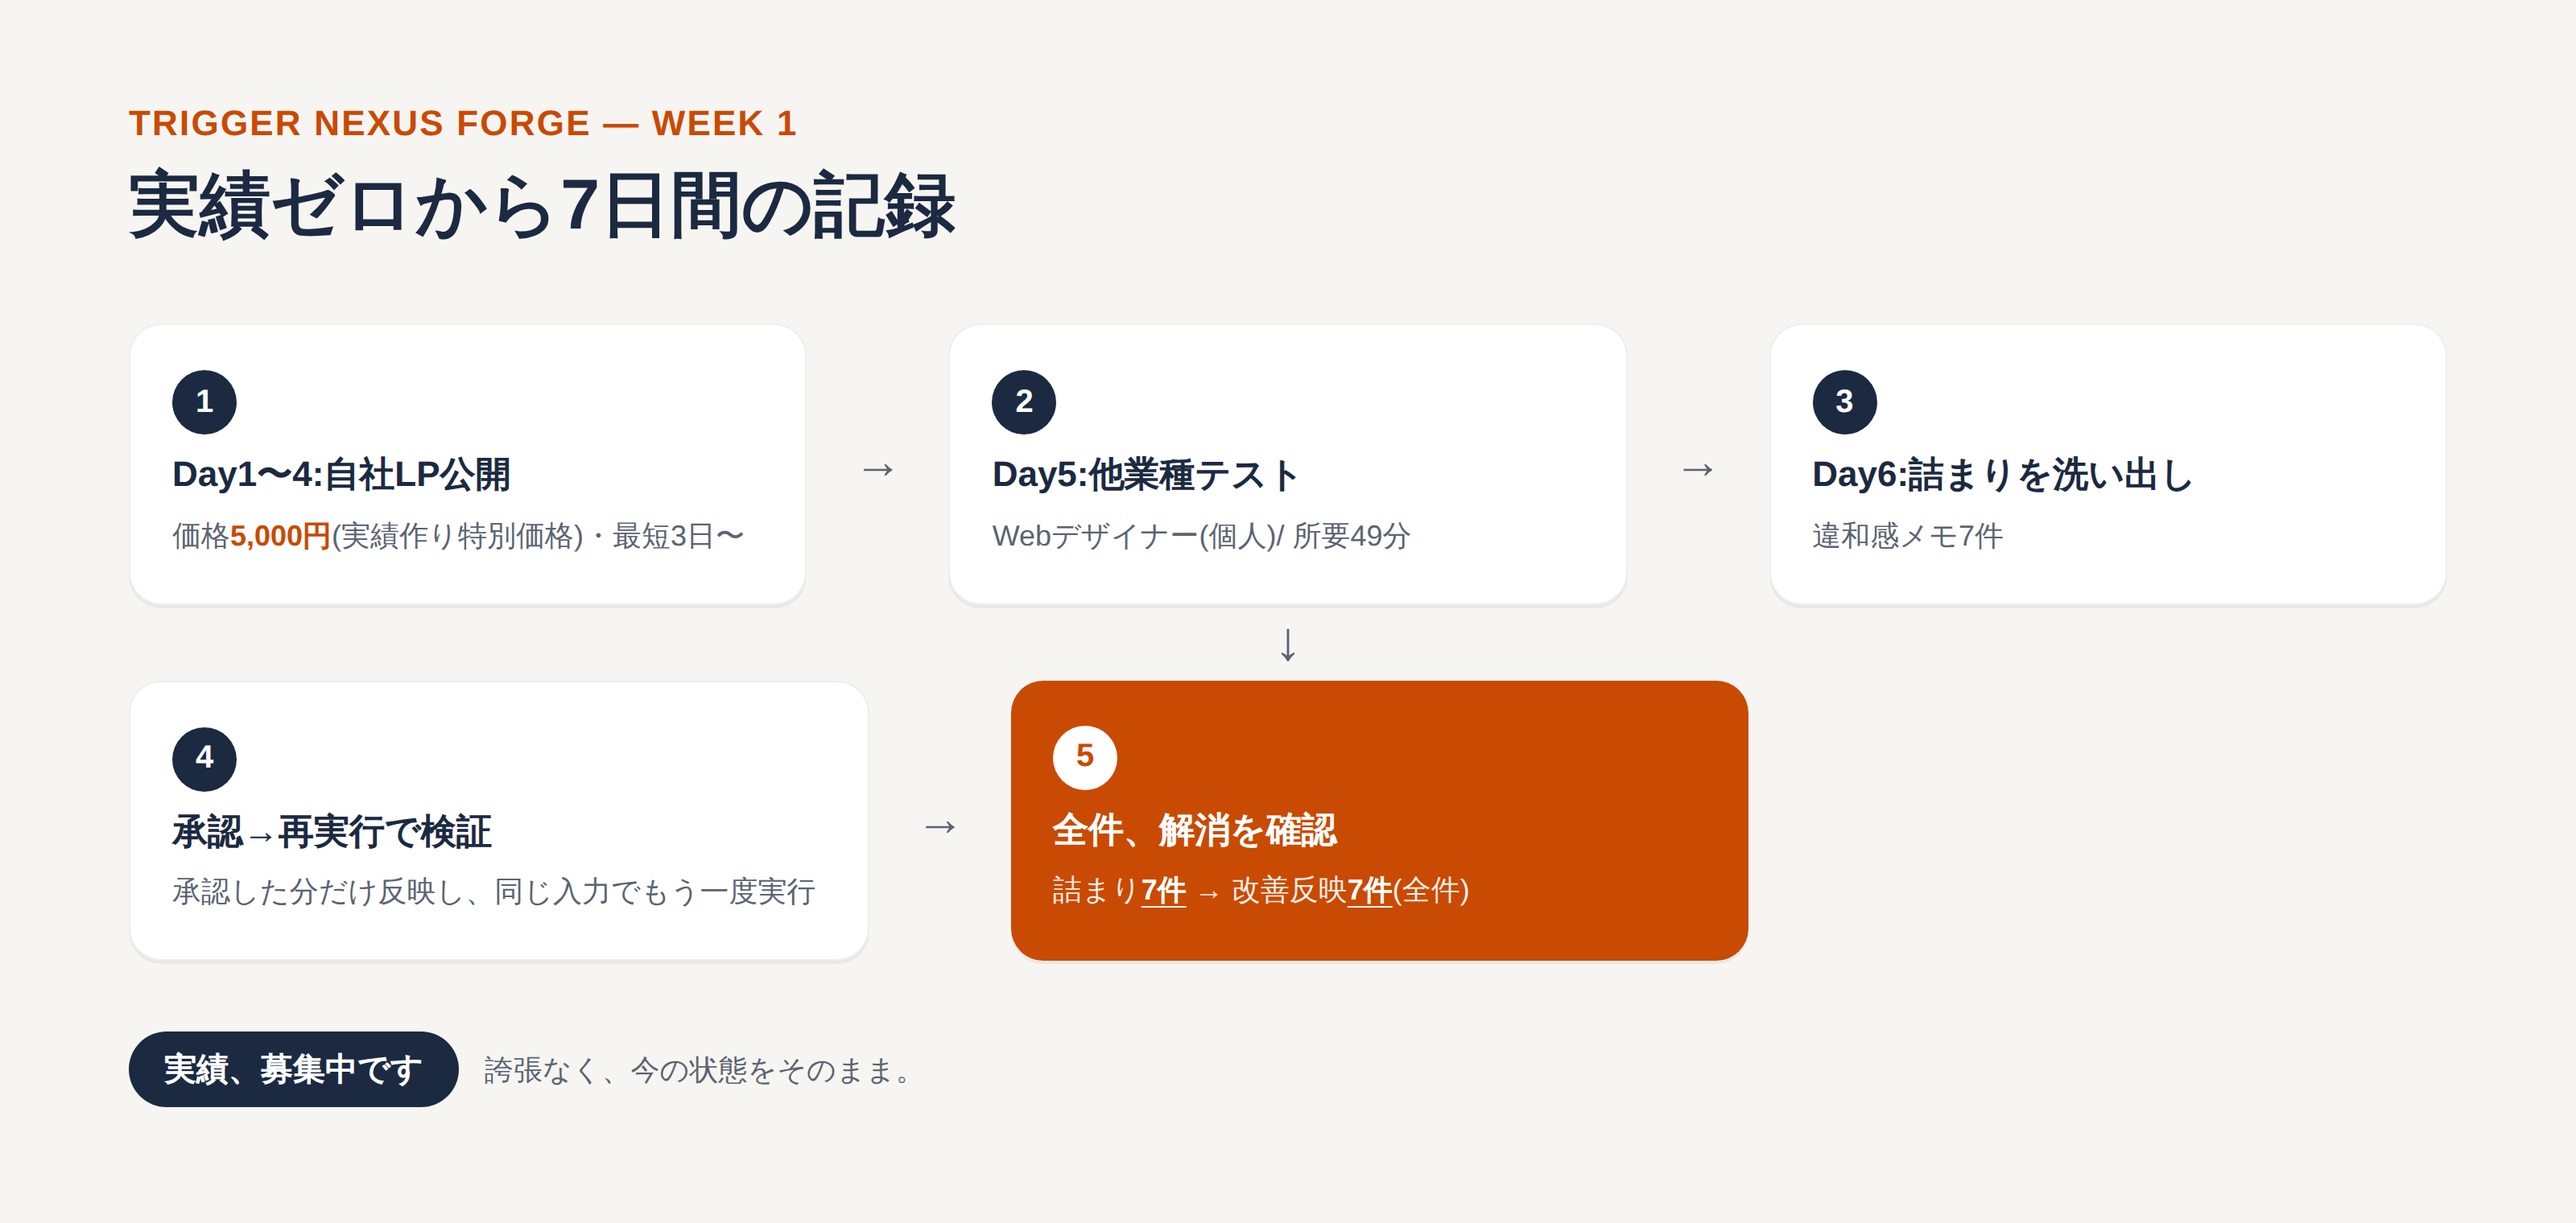
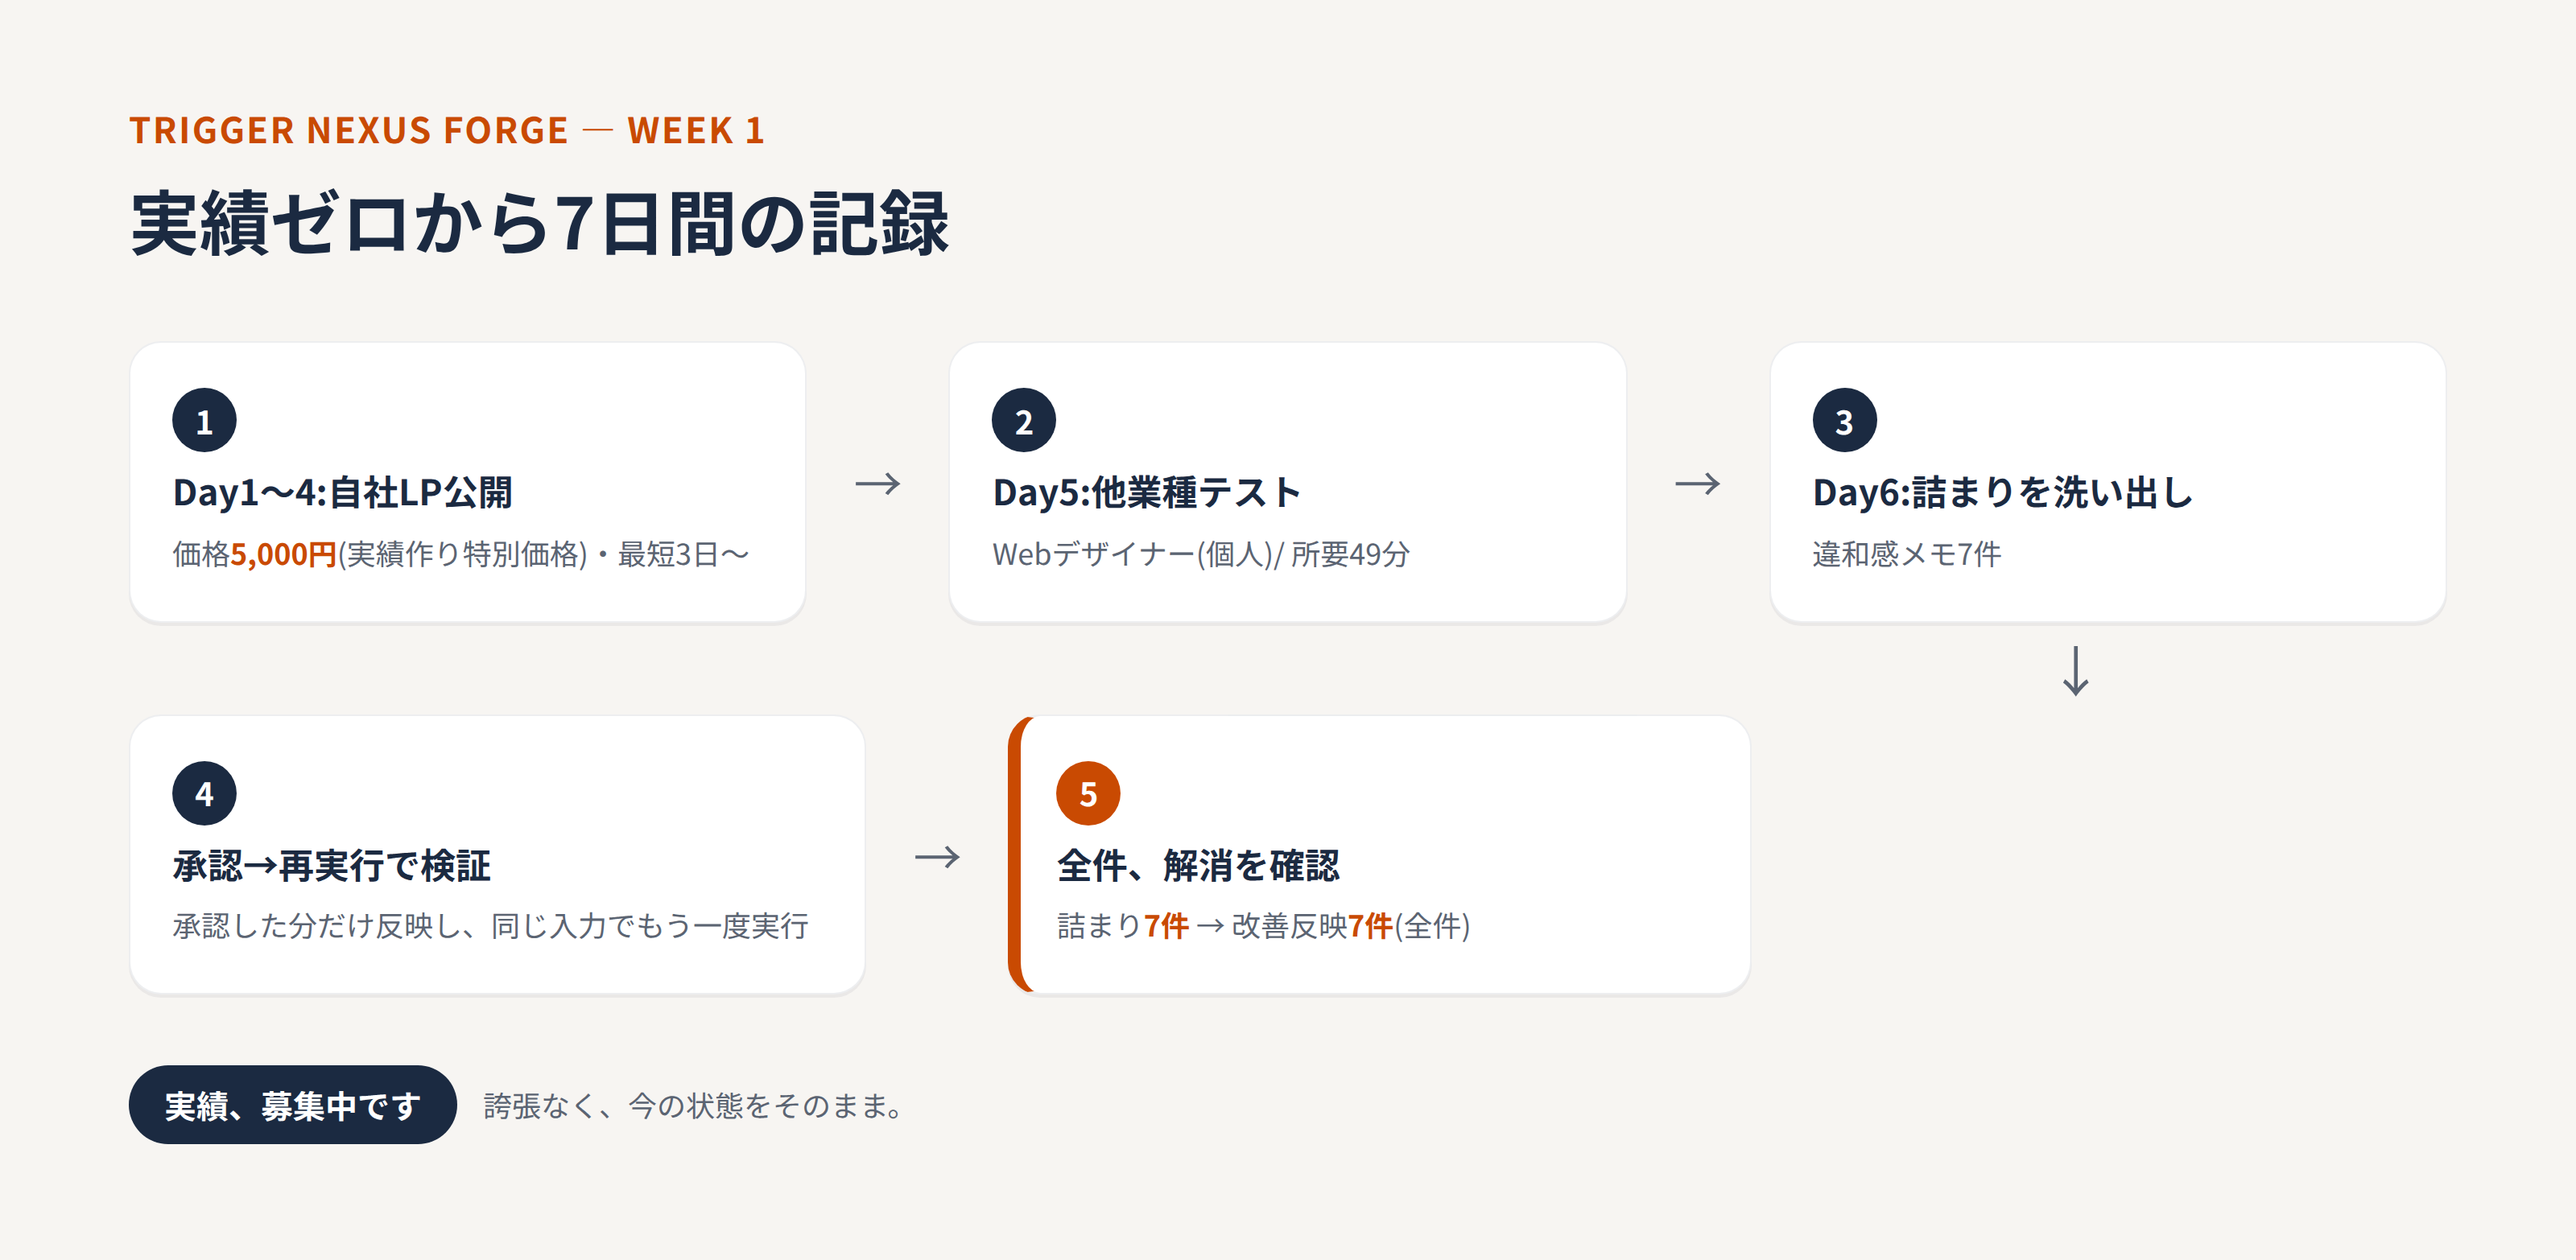
DAY12: テーマ1号の最終検品→修正→approved化
別セッション検品(master.md+媒体別チェックリスト+quality_standards.md 3条件)を実施:
- x_single.md単発1「5,000円で受注しました」が未検証の実績主張だったため
  「5,000円という値段をつけました」に修正(prohibitions.mdレベル1相当の指摘)
- images/week1_flow.pngを3点修正:下矢印のカード整列、ステップ5の全面オレンジ塗りを
  左ボーダー方式に変更(brand.md大面積NG対応)、フォントをNoto Sans CJK JPに明示変更
- 全6ファイルの状態をapprovedに更新、検品記録を_day12_review.mdに保存
- note.mdのCTA誘導先が非HTTPSの疑いがある点を注記(オーナー確認推奨)

diff --git a/02_CONTENT_FACTORY/05_OUTPUTS/ai_company/T-20260715-01_lp-builder/_day12_review.md b/02_CONTENT_FACTORY/05_OUTPUTS/ai_company/T-20260715-01_lp-builder/_day12_review.md
@@ -1,0 +1,37 @@
+# DAY12 最終検品記録 — テーマ1号
+
+<!-- 02_CONTENT_FACTORY/07_CHECKLIST/master.md+媒体別チェックリスト+00_RULES/quality_standards.md
+     3条件で実施した公開前ゲートの記録。検品者:別セッション(サブエージェント)+本セッションでの修正適用 -->
+
+検品日:2026-07-20
+検品者:別セッション(サブエージェント。REVIEW_TEMPLATE.mdに準ずる手順)
+
+## 検品結果サマリ
+
+| ファイル | 検品結果 | 対応 | 状態 |
+|---------|---------|------|------|
+| note.md | 承認(既存の条件付き承認を再確認、追加✗なし) | CTA誘導先の非HTTPS疑いを注記(未検証・公開前オーナー確認推奨) | approved |
+| x_single.md | **差し戻し→修正** | 単発1「5,000円で受注しました」が`_input.md`に未記載の実績主張だったため「5,000円という値段をつけました」に修正 | approved |
+| x_thread.md | 承認 | 修正なし | approved |
+| threads.md | 承認 | 修正なし | approved |
+| images/week1_flow_design.md + week1_flow.png | 条件付き承認→修正 | ①下矢印のカード3整列 ②ステップ5の全面オレンジ塗り→左ボーダー方式(brand.md大面積NG対応) ③フォントをNoto Sans CJK JPに明示変更(IPAGothicフォールバックを解消) | approved |
+
+## 禁止事項チェック(全ファイル横断)
+
+- 事実でない数字・実績・体験談:x_single.md単発1のみ該当 → 修正済み
+- NGワード(絶対/100%/誰でも簡単に/業界No.1/AIが全部/今だけ/稼げます等):全ファイルでゼロ件
+- 【要確認】【要記入】タグ残り:ゼロ件
+- 機密情報の混入:なし
+
+## quality_standards.md 3条件判定(修正後)
+
+全ファイル:価値 ✓ / 誠実 ✓ / らしさ ✓
+
+## 残課題(公開をブロックしないが要確認)
+
+- note.mdのCTA誘導先URL(`http://trgger0307.com/lp/`)が非HTTPS。この作業環境からは名前解決できず実際の表示は未検証。オーナーが実際にブラウザで開いて確認することを推奨
+- 図解画像の配色ルール(背景色を「3色以内」のカウントに含めるか等)が`brand.md`に明文化されていない。次回以降の図解制作前に基準を明記しておくと判断がぶれない
+
+## 次のステップ
+
+すべてのファイルの状態を`approved`に更新済み。DAY12完成条件の「公開ボタンは自分で押す」に従い、note記事+X投稿(最低1本)をオーナーが実際に公開してください。公開後、各ファイルの`公開:`欄にURLと日時を記録し、状態を`published`に更新します。

diff --git a/02_CONTENT_FACTORY/05_OUTPUTS/ai_company/T-20260715-01_lp-builder/x_single.md b/02_CONTENT_FACTORY/05_OUTPUTS/ai_company/T-20260715-01_lp-builder/x_single.md
@@ -2,10 +2,10 @@
 テーマID: T-20260715-01
 媒体: X
 形式: 単発(3本、note記事からの多展開)
-状態: draft
+状態: approved
 生成: SNS_AI
-検品:
-承認:
+検品: 差し戻し(2026-07-20、DAY12最終検品・別セッション検品)→単発1「5,000円で受注しました」が_input.mdに未記載の実績主張(受注事実)だったため「5,000円という値段をつけました」に修正。単発2・3、master.md/cta.md/brand.md/tone.md/readability.md/proofreading.md+quality_standards.md 3条件は承認
+承認: 2026-07-20(DAY12指示に基づき検品通過分をapproved化。最終公開判断はオーナー)
 公開:
 ```
 
@@ -21,17 +21,17 @@
 |----|-------|-----|
 | A | 実績:0件。 | 数字型 |
 | B | 「実績がない」ことを、隠しませんでした。 | 逆説型 |
-| **★採用** | 実績ゼロなのに、5,000円で受注しました。 | 意外性型(数字×逆説) |
+| **★採用** | 実績ゼロなのに、5,000円という値段をつけました。 | 意外性型(数字×逆説) |
 
 ```
-実績ゼロなのに、5,000円で受注しました。
+実績ゼロなのに、5,000円という値段をつけました。
 
 理由はシンプルです。
 LPの中に「実績、募集中です」とそのまま書きました。
 
 隠すより、正直に見せたほうが信頼されると思ったからです。
 ```
-(91字)
+(95字)
 
 ## 単発2:改善ループ(狙い:学ばせたい)
 

diff --git a/02_CONTENT_FACTORY/05_OUTPUTS/ai_company/T-20260715-01_lp-builder/note.md b/02_CONTENT_FACTORY/05_OUTPUTS/ai_company/T-20260715-01_lp-builder/note.md
@@ -4,7 +4,7 @@
 形式: 体験記事
 状態: approved(オーナー承認済み・公開は後日)
 生成: Copywriter_AI
-検品: 条件付き承認(2026-07-17、別セッション検品)→ 指摘2件(USP用語の初出補足漏れ・文末「〜ました」の3連続超過)を修正して解消
+検品: 条件付き承認(2026-07-17、別セッション検品)→ 指摘2件(USP用語の初出補足漏れ・文末「〜ました」の3連続超過)を修正して解消。DAY12最終検品(2026-07-20)で再確認、追加の✗なし。ただしCTA誘導先(http://trgger0307.com/lp/)が非HTTPSのため、公開前にHTTPS化または表示を確認することを推奨(このサンドボックスからは名前解決できず未検証)
 承認: 2026-07-19(オーナー)
 公開:
 ```

diff --git a/02_CONTENT_FACTORY/05_OUTPUTS/ai_company/T-20260715-01_lp-builder/x_thread.md b/02_CONTENT_FACTORY/05_OUTPUTS/ai_company/T-20260715-01_lp-builder/x_thread.md
@@ -2,10 +2,10 @@
 テーマID: T-20260715-01
 媒体: X
 形式: スレッド(6投稿、note記事からの多展開)
-状態: draft
+状態: approved
 生成: SNS_AI
-検品:
-承認:
+検品: 承認(2026-07-20、DAY12最終検品・別セッション検品)→ 禁止事項該当なし、数字は_input.mdと全件一致、140字以内・絵文字1個のみ、master.md/cta.md/brand.md/tone.md/readability.md/proofreading.md+quality_standards.md 3条件すべてクリア
+承認: 2026-07-20(DAY12指示に基づき検品通過分をapproved化。最終公開判断はオーナー)
 公開:
 ```
 

diff --git a/02_CONTENT_FACTORY/05_OUTPUTS/ai_company/T-20260715-01_lp-builder/threads.md b/02_CONTENT_FACTORY/05_OUTPUTS/ai_company/T-20260715-01_lp-builder/threads.md
@@ -2,10 +2,10 @@
 テーマID: T-20260715-01
 媒体: Threads
 形式: 単発×2(Prompt1+Prompt3、note記事からの多展開)
-状態: draft
+状態: approved
 生成: SNS_AI
-検品:
-承認:
+検品: 承認(2026-07-20、DAY12最終検品・別セッション検品)→ 禁止事項該当なし、宣伝色なし、問いかけ終わり統一済み、master.md/cta.md/brand.md/tone.md/readability.md/proofreading.md+quality_standards.md 3条件すべてクリア
+承認: 2026-07-20(DAY12指示に基づき検品通過分をapproved化。最終公開判断はオーナー)
 公開:
 ```
 
